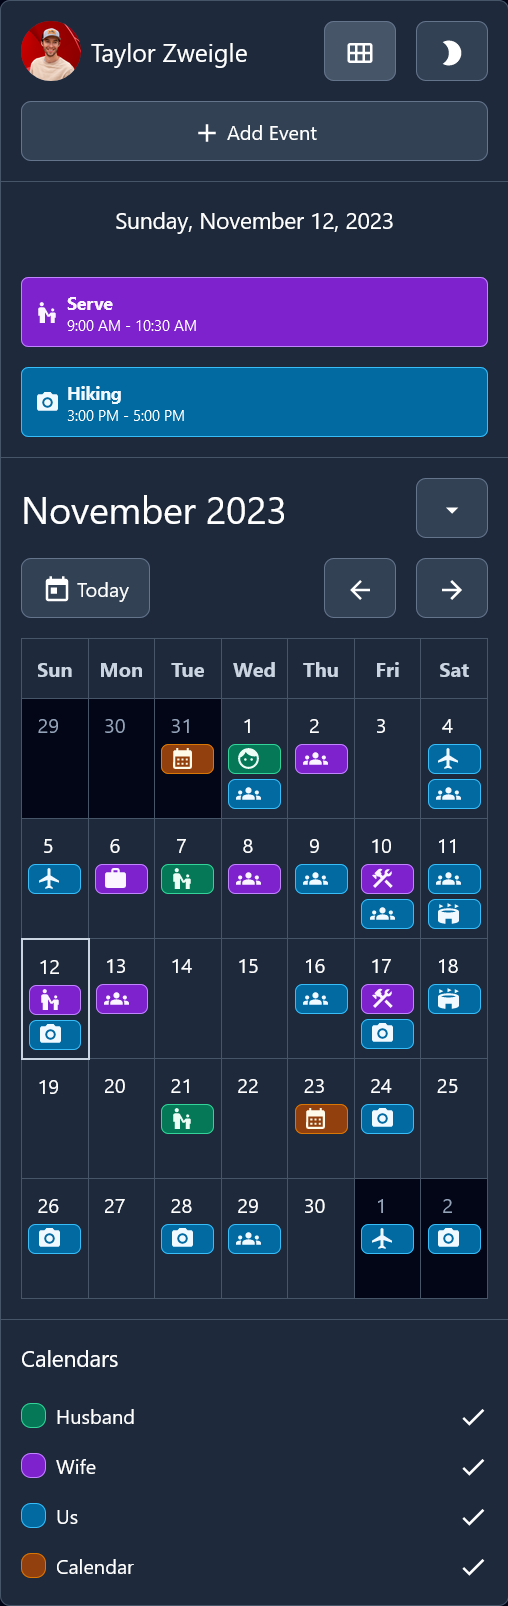
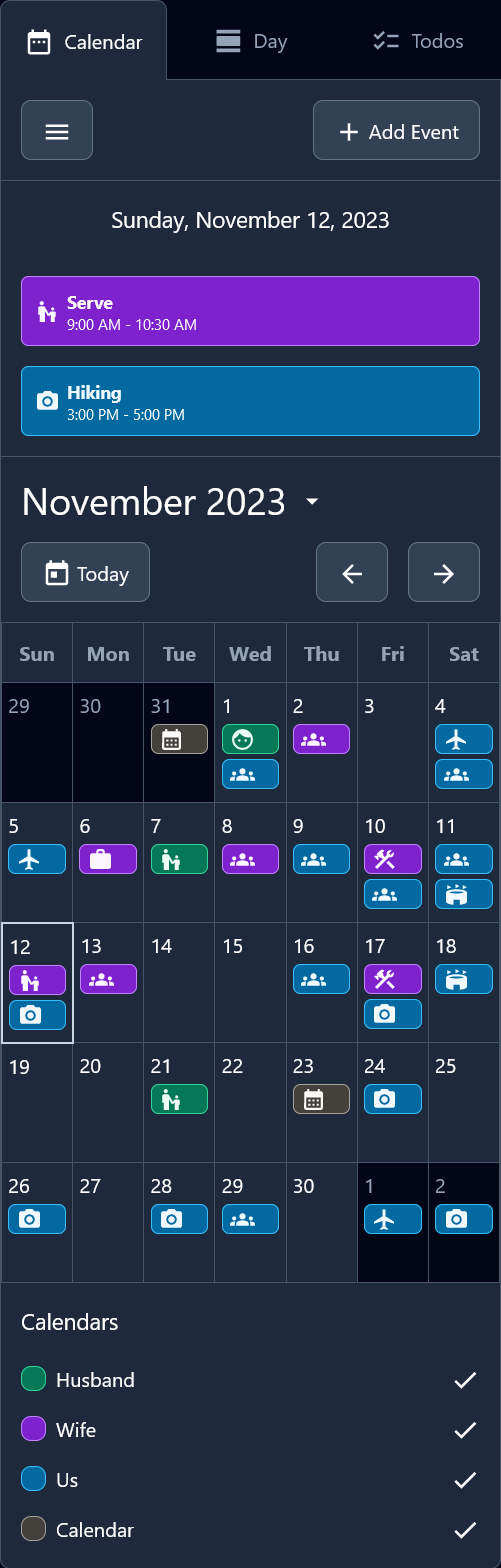
updated readme images

diff --git a/README.md b/README.md
@@ -27,8 +27,10 @@ The app allows for navigating to the previous and next months using arrow button
 
 ![Filter](https://github.com/taylorzweigle/CalendarApp/blob/main/img/Calendar_App_Filter_Dark.png)
 
+### Todos
+
+![Todos](https://github.com/taylorzweigle/CalendarApp/blob/main/img/Calendar_App_Todo.png)
+
 ### Mobile
 
-|                                                                                                        |                                                                                                        |
-| ------------------------------------------------------------------------------------------------------ | ------------------------------------------------------------------------------------------------------ |
-| ![Mobile_1](https://github.com/taylorzweigle/CalendarApp/blob/main/img/Calendar_App_Mobile_1_Dark.png) | ![Mobile_2](https://github.com/taylorzweigle/CalendarApp/blob/main/img/Calendar_App_Mobile_2_Dark.png) |
+| ![Mobile_1](https://github.com/taylorzweigle/CalendarApp/blob/main/img/Calendar_App_Mobile_1_Dark.png) | ![Mobile_2](https://github.com/taylorzweigle/CalendarApp/blob/main/img/Calendar_App_Mobile_2_Dark.png) | ![Mobile_3](https://github.com/taylorzweigle/CalendarApp/blob/main/img/Calendar_App_Mobile_3_Dark.png) | ![Mobile_4](https://github.com/taylorzweigle/CalendarApp/blob/main/img/Calendar_App_Todo_Mobile.png) |
